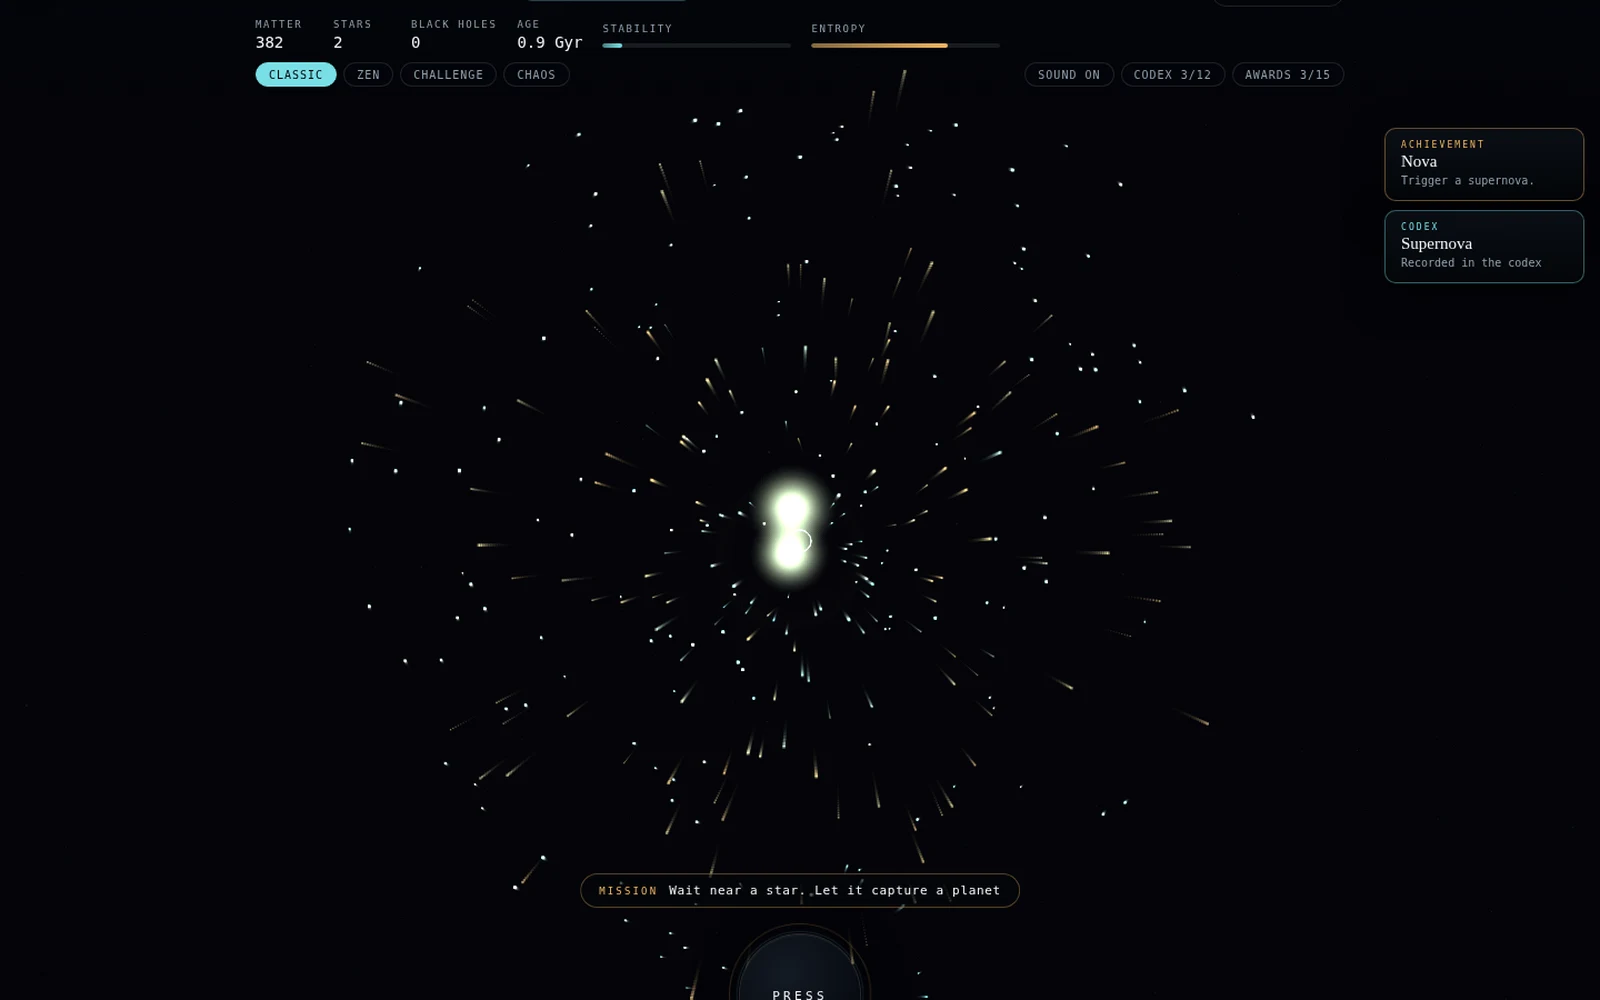
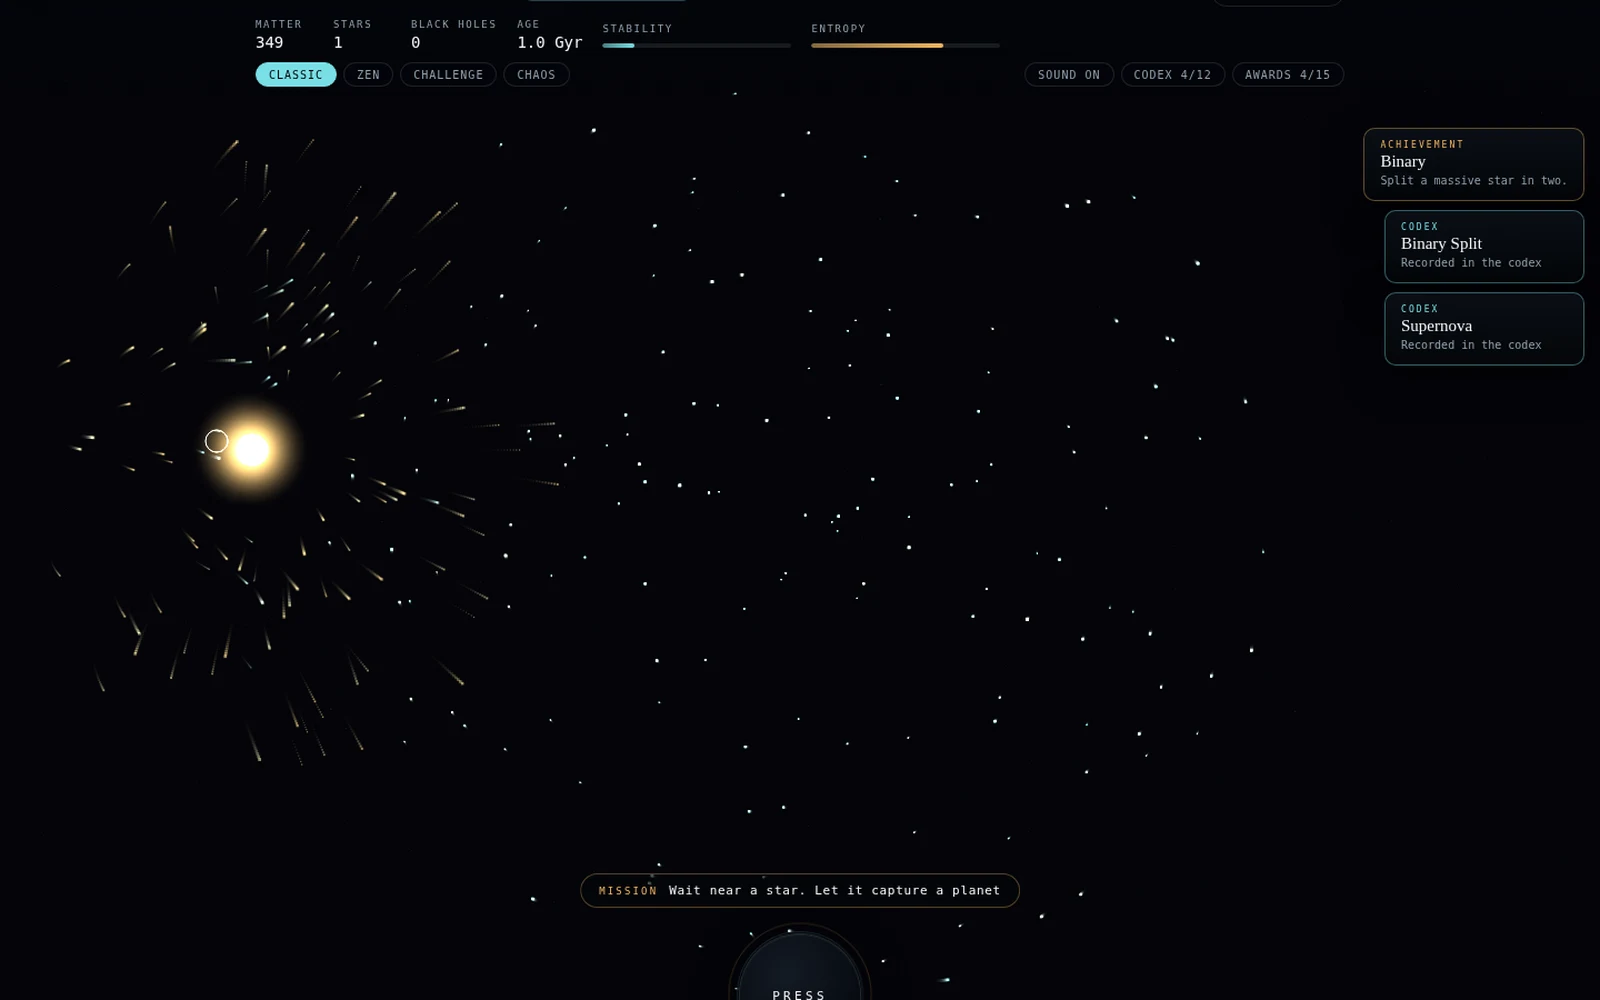
feat: improve mobile portfolio imagery

diff --git a/src/App.tsx b/src/App.tsx
@@ -80,6 +80,7 @@ const COPY: Record<
 type Project = {
   title: string
   image: string
+  mobileImage: string
   badges: string[]
   description: string
   role: string
@@ -93,6 +94,7 @@ const PROJECTS: Project[] = [
   {
     title: 'Captcha Hell',
     image: assetPath('assets/portfolio/captcha-hell.webp'),
+    mobileImage: assetPath('assets/portfolio/captcha-hell-mobile.webp'),
     badges: ['Interactive Game', 'React'],
     description:
       'Satirical interactive web game about proving you are human.',
@@ -109,6 +111,7 @@ const PROJECTS: Project[] = [
   {
     title: 'The Website That Slowly Dies',
     image: assetPath('assets/portfolio/website-that-slowly-dies.webp'),
+    mobileImage: assetPath('assets/portfolio/website-that-slowly-dies-mobile.webp'),
     badges: ['Web Toy', 'Concept'],
     description:
       'Experimental web experience where a clean site decays the longer you stay.',
@@ -125,6 +128,7 @@ const PROJECTS: Project[] = [
   {
     title: 'One Button Universe',
     image: assetPath('assets/portfolio/one-button-universe.webp'),
+    mobileImage: assetPath('assets/portfolio/one-button-universe-mobile.webp'),
     badges: ['Web Toy', 'React'],
     description:
       'Minimal web toy where one button creates a universe.',
@@ -141,6 +145,7 @@ const PROJECTS: Project[] = [
   {
     title: 'Kairo / Kei OS',
     image: assetPath('assets/portfolio/kairo-kei-os.webp'),
+    mobileImage: assetPath('assets/portfolio/kairo-kei-os-mobile.webp'),
     badges: ['Concept', 'Life OS'],
     description:
       'Personal companion and life-dashboard concept for calm daily structure.',
@@ -275,7 +280,7 @@ function Navbar() {
   return (
     <nav className="absolute left-0 right-0 top-0 z-20 flex items-center justify-between px-6 py-6 md:px-12">
       <a href="#home" className="text-xl font-bold tracking-wide text-white">
-        ABEL
+        aichrisz
       </a>
       <div className="hidden items-center gap-8 text-sm text-white md:flex">
         <a href="#home">Home</a>
@@ -555,13 +560,19 @@ function ProjectsSection({
             type="button"
             onClick={() => onOpenProject(project)}
             aria-label={`Open ${project.title} case study`}
-            className="relative block h-[800px] w-full overflow-hidden rounded-2xl bg-neutral-900 text-left"
+            className="relative block h-[520px] w-full overflow-hidden rounded-2xl bg-neutral-900 text-left sm:h-[640px] md:h-[800px]"
           >
-            <img
-              src={project.image}
-              alt={project.title}
-              className="absolute inset-0 h-full w-full object-cover"
-            />
+            <picture>
+              <source media="(max-width: 767px)" srcSet={project.mobileImage} />
+              <img
+                src={project.image}
+                alt={project.title}
+                loading="lazy"
+                decoding="async"
+                sizes="(max-width: 767px) calc(100vw - 48px), min(100vw - 96px, 1440px)"
+                className="absolute inset-0 h-full w-full object-cover object-center"
+              />
+            </picture>
             <div className="absolute left-6 top-6 flex gap-3">
               {project.badges.map((badge) => (
                 <span
@@ -599,7 +610,7 @@ function AboutSection({ lang }: { lang: Language }) {
           <img
             src={PORTRAIT_IMAGE}
             alt="Portrait of Abel Immanuela Kristianto"
-            className="h-auto w-full max-w-md rounded-2xl object-cover"
+            className="aspect-square h-auto w-full max-w-md rounded-2xl object-cover object-center sm:aspect-[4/5]"
           />
         </div>
         <div className="flex flex-col items-start justify-center gap-10">

diff --git a/scripts/capture-portfolio-assets.py b/scripts/capture-portfolio-assets.py
@@ -18,7 +18,7 @@ PORTRAIT_URL = 'https://nxhpiqjxoftjiyfwimno.supabase.co/storage/v1/object/publi
 
 def crop_to_card(src: Path, dest: Path):
     im = Image.open(src).convert('RGB')
-    # Keep a wide 16:10-ish crop that works well with object-cover inside 800px cards.
+    # Wide desktop card asset.
     target_ratio = 16 / 10
     w, h = im.size
     current = w / h
@@ -31,6 +31,23 @@ def crop_to_card(src: Path, dest: Path):
         top = max(0, (h - new_h) // 3)
         box = (0, top, w, top + new_h)
     im.crop(box).resize((1600, 1000), Image.Resampling.LANCZOS).save(dest, 'WEBP', quality=88)
+
+
+def crop_to_mobile_card(src: Path, dest: Path):
+    im = Image.open(src).convert('RGB')
+    # Portrait-ish mobile card asset, closer to the 320-390px card aspect.
+    target_ratio = 9 / 16
+    w, h = im.size
+    current = w / h
+    if current > target_ratio:
+        new_w = int(h * target_ratio)
+        left = (w - new_w) // 2
+        box = (left, 0, left + new_w, h)
+    else:
+        new_h = int(w / target_ratio)
+        top = max(0, (h - new_h) // 4)
+        box = (0, top, w, top + new_h)
+    im.crop(box).resize((900, 1600), Image.Resampling.LANCZOS).save(dest, 'WEBP', quality=88)
 
 
 def make_private_kairo_card(dest: Path):
@@ -81,27 +98,41 @@ def main():
     chromium = subprocess.check_output("command -v chromium || command -v chromium-browser || command -v google-chrome", shell=True, text=True).strip()
     with sync_playwright() as p:
         browser = p.chromium.launch(headless=True, executable_path=chromium, args=['--no-sandbox'])
-        page = browser.new_page(viewport={'width': 1440, 'height': 1000}, device_scale_factor=1)
+        desktop = browser.new_page(viewport={'width': 1440, 'height': 1000}, device_scale_factor=1)
+        mobile = browser.new_page(viewport={'width': 390, 'height': 760}, device_scale_factor=2, is_mobile=True)
+
+        def seed_universe(page):
+            for label in ['Start a new universe', 'Act on the universe']:
+                try:
+                    page.get_by_label(label).click(timeout=2500)
+                except Exception:
+                    pass
+            for _ in range(14):
+                page.mouse.click(195, 430)
+                page.wait_for_timeout(80)
+            page.wait_for_timeout(1200)
+
         for slug, url in PROJECTS:
-            page.goto(url, wait_until='networkidle', timeout=60000)
-            page.wait_for_timeout(1500)
+            desktop.goto(url, wait_until='networkidle', timeout=60000)
+            desktop.wait_for_timeout(1500)
             if slug == 'one-button-universe':
-                # Seed the universe so the screenshot shows the actual generated toy, not an empty canvas.
-                for label in ['Start a new universe', 'Act on the universe']:
-                    try:
-                        page.get_by_label(label).click(timeout=2500)
-                    except Exception:
-                        pass
-                for _ in range(14):
-                    page.mouse.click(720, 520)
-                    page.wait_for_timeout(80)
-                page.wait_for_timeout(1200)
+                seed_universe(desktop)
             raw = OUT / f'{slug}.png'
-            page.screenshot(path=str(raw), full_page=False)
+            desktop.screenshot(path=str(raw), full_page=False)
             crop_to_card(raw, OUT / f'{slug}.webp')
             raw.unlink(missing_ok=True)
+
+            mobile.goto(url, wait_until='networkidle', timeout=60000)
+            mobile.wait_for_timeout(1500)
+            if slug == 'one-button-universe':
+                seed_universe(mobile)
+            raw_mobile = OUT / f'{slug}-mobile.png'
+            mobile.screenshot(path=str(raw_mobile), full_page=False)
+            crop_to_mobile_card(raw_mobile, OUT / f'{slug}-mobile.webp')
+            raw_mobile.unlink(missing_ok=True)
         browser.close()
     make_private_kairo_card(OUT / 'kairo-kei-os.webp')
+    crop_to_mobile_card(OUT / 'kairo-kei-os.webp', OUT / 'kairo-kei-os-mobile.webp')
     portrait_raw = OUT / 'abel-aichrisz-avatar.png'
     urllib.request.urlretrieve(PORTRAIT_URL, portrait_raw)
     im = Image.open(portrait_raw).convert('RGB')

diff --git a/scripts/mobile-qa.py b/scripts/mobile-qa.py
@@ -1,0 +1,58 @@
+from pathlib import Path
+from playwright.sync_api import sync_playwright
+
+ROOT = Path(__file__).resolve().parents[1]
+OUT = ROOT / 'tmp-mobile-qa'
+OUT.mkdir(exist_ok=True)
+URL = 'http://127.0.0.1:5196/?v=mobile-qa'
+
+script = """
+() => {
+  const imgData = [...document.images].map(img => ({
+    alt: img.alt,
+    src: img.currentSrc || img.src,
+    complete: img.complete,
+    naturalWidth: img.naturalWidth,
+    naturalHeight: img.naturalHeight,
+    rect: (() => { const r = img.getBoundingClientRect(); return {w: Math.round(r.width), h: Math.round(r.height), x: Math.round(r.x), y: Math.round(r.y)} })(),
+  }));
+  const projects = [...document.querySelectorAll('#projects > div > button')].map((el) => {
+    const r = el.getBoundingClientRect();
+    return {h: Math.round(r.height), w: Math.round(r.width)};
+  });
+  const portrait = document.querySelector('img[alt="Portrait of Abel Immanuela Kristianto"]');
+  const pr = portrait?.getBoundingClientRect();
+  return {
+    title: document.title,
+    logo: document.querySelector('nav a')?.textContent?.trim(),
+    viewport: {w: innerWidth, h: innerHeight},
+    scrollWidth: document.documentElement.scrollWidth,
+    clientWidth: document.documentElement.clientWidth,
+    overflowX: document.documentElement.scrollWidth - document.documentElement.clientWidth,
+    bodyBg: getComputedStyle(document.body).backgroundColor,
+    heroFixed: getComputedStyle(document.querySelector('#home')).position,
+    projectCards: projects,
+    portraitRect: pr ? {w: Math.round(pr.width), h: Math.round(pr.height)} : null,
+    images: imgData,
+    jsOverlay: !!document.querySelector('vite-error-overlay'),
+  }
+}
+"""
+
+with sync_playwright() as p:
+    browser = p.chromium.launch(headless=True, executable_path='/snap/bin/chromium', args=['--no-sandbox'])
+    for width in (390, 320):
+        page = browser.new_page(viewport={'width': width, 'height': 900}, device_scale_factor=2, is_mobile=True)
+        page.goto(URL, wait_until='networkidle', timeout=60000)
+        page.screenshot(path=str(OUT / f'mobile-{width}-top.png'), full_page=False)
+        page.locator('#projects').scroll_into_view_if_needed()
+        page.wait_for_timeout(500)
+        page.screenshot(path=str(OUT / f'mobile-{width}-projects.png'), full_page=False)
+        page.locator('#about').scroll_into_view_if_needed()
+        page.wait_for_timeout(500)
+        page.screenshot(path=str(OUT / f'mobile-{width}-about.png'), full_page=False)
+        data = page.evaluate(script)
+        print(width, data)
+        page.close()
+    browser.close()
+print('screenshots', OUT)

diff --git a/README.md b/README.md
@@ -36,3 +36,4 @@ npm run lint
 - Signature section with three minimal cards
 - Contact build-type selector updating the `mailto:[email redacted]` subject
 - Repo-local captured assets in `public/assets/portfolio/`: live project screenshots for Best Work cards and the `aichrisz.com` profile photo for Who I am
+- Mobile-friendly image layout: project cards use shorter mobile heights while keeping `800px` desktop cards; captured project screenshots ship as desktop and mobile WebP variants via `<picture>`